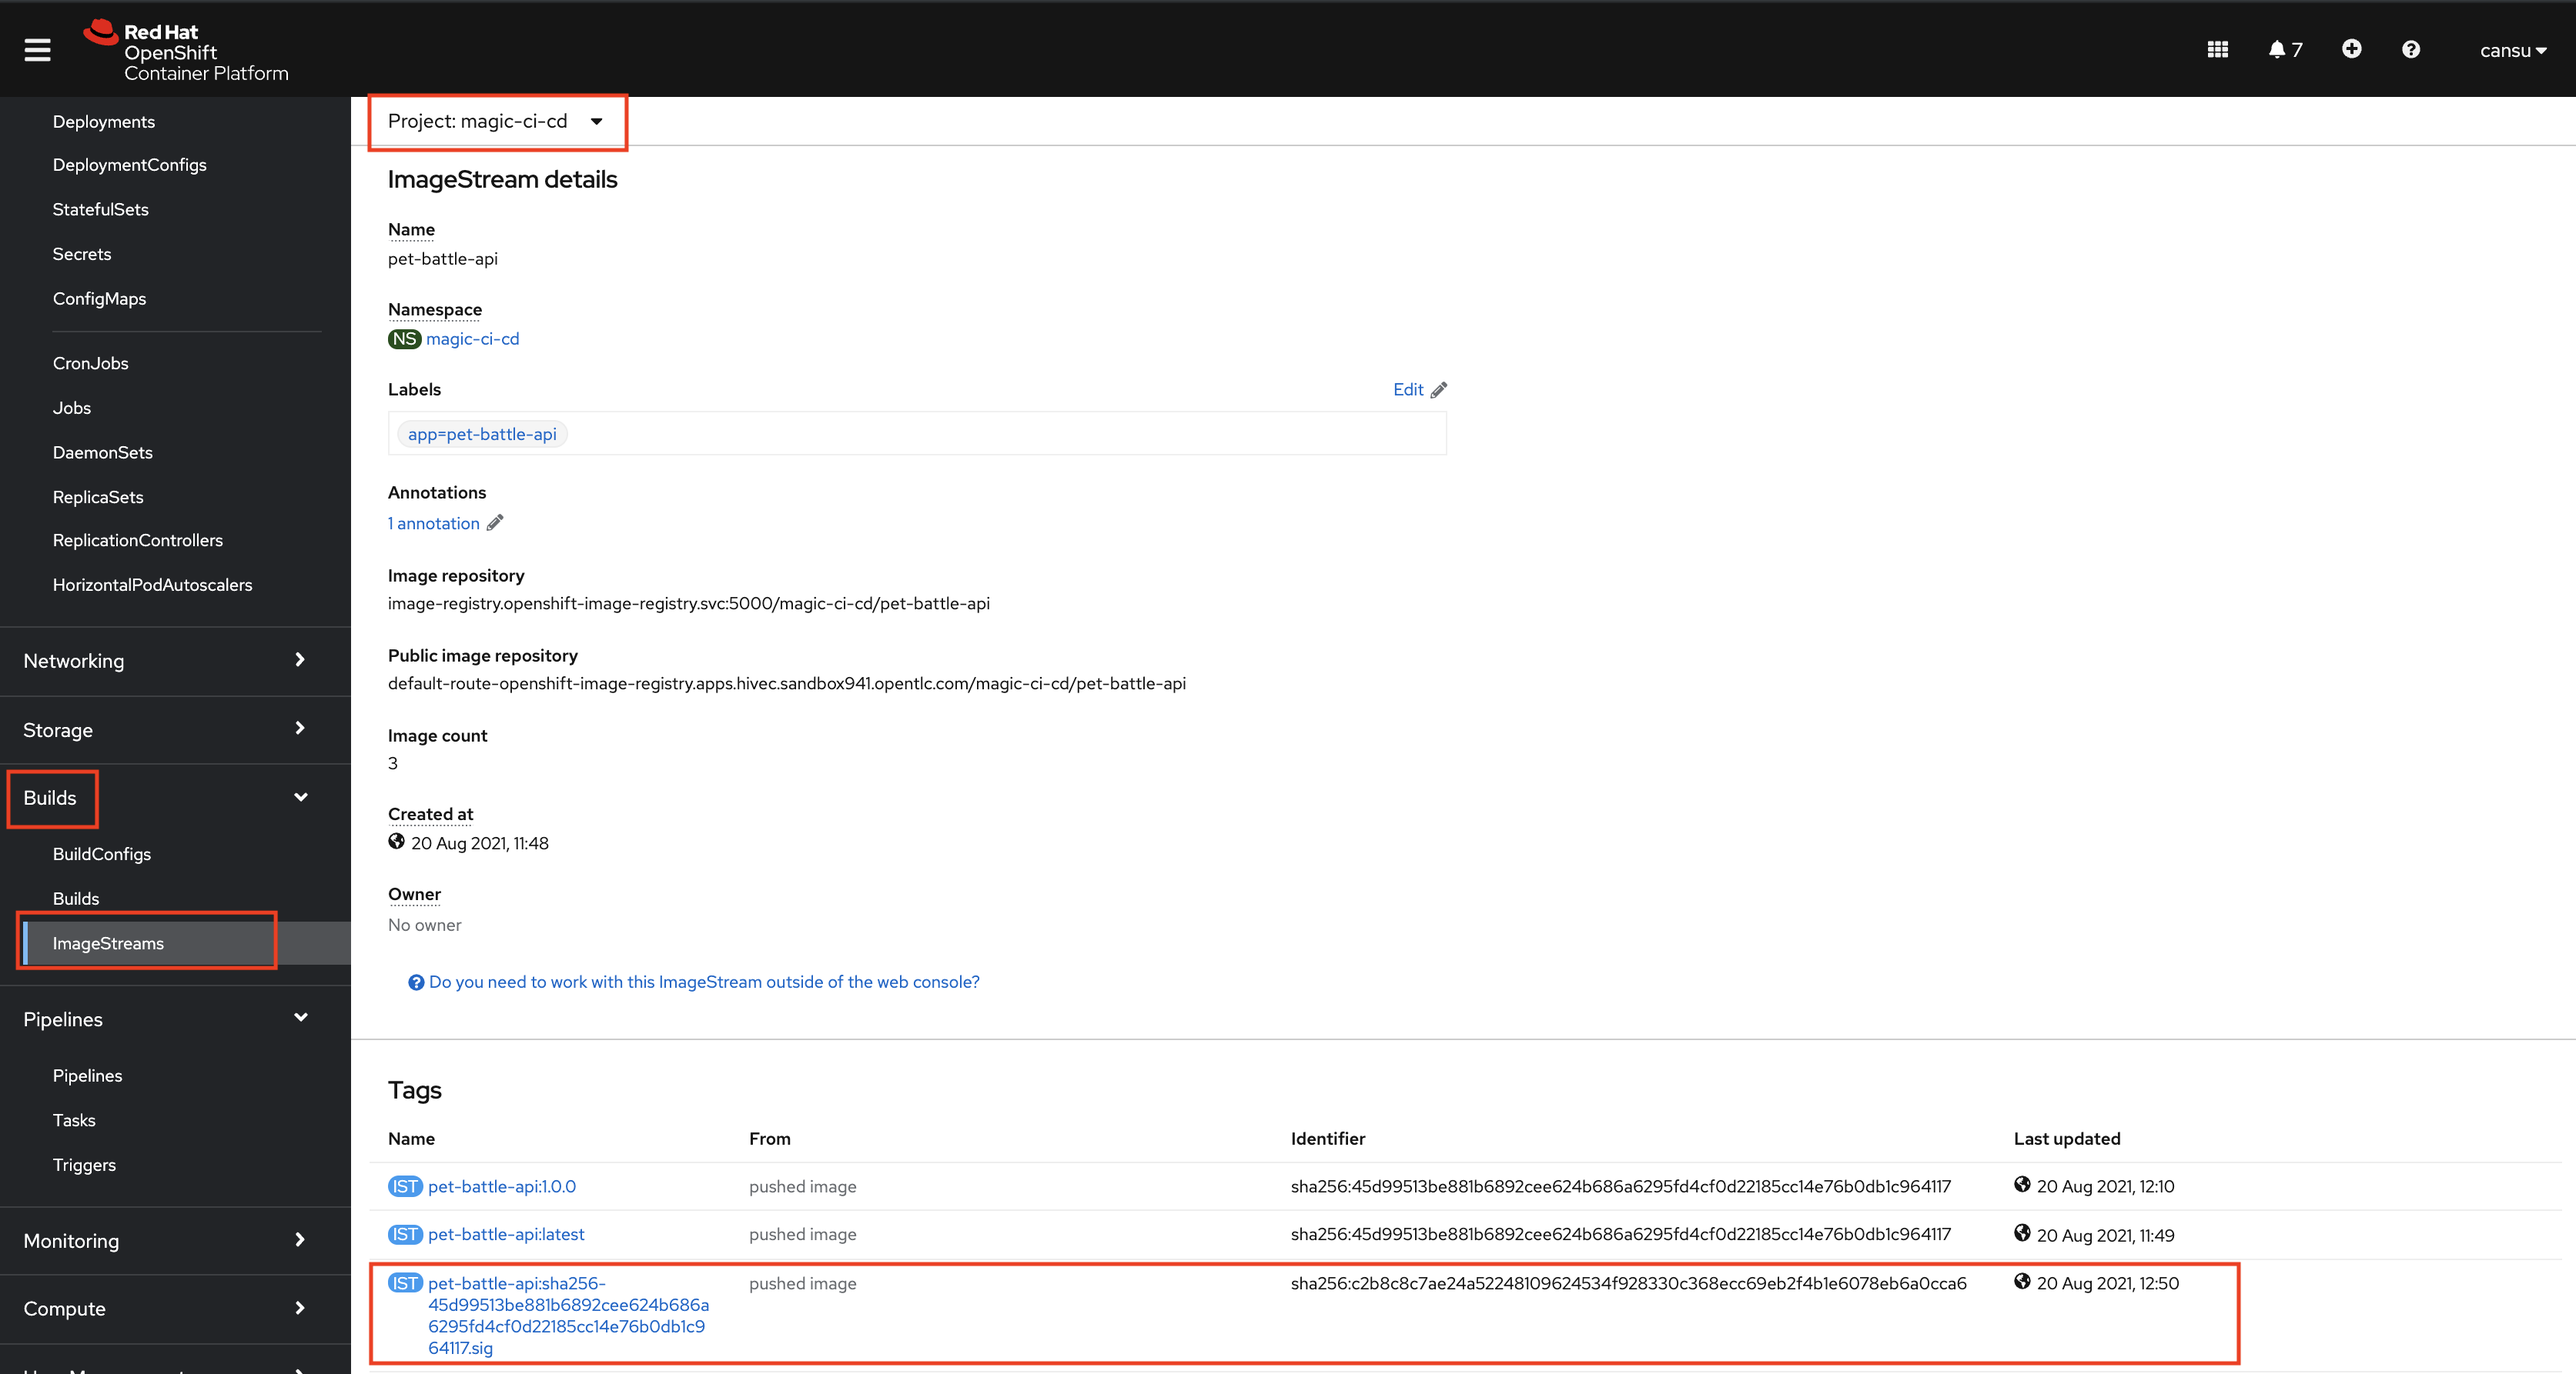
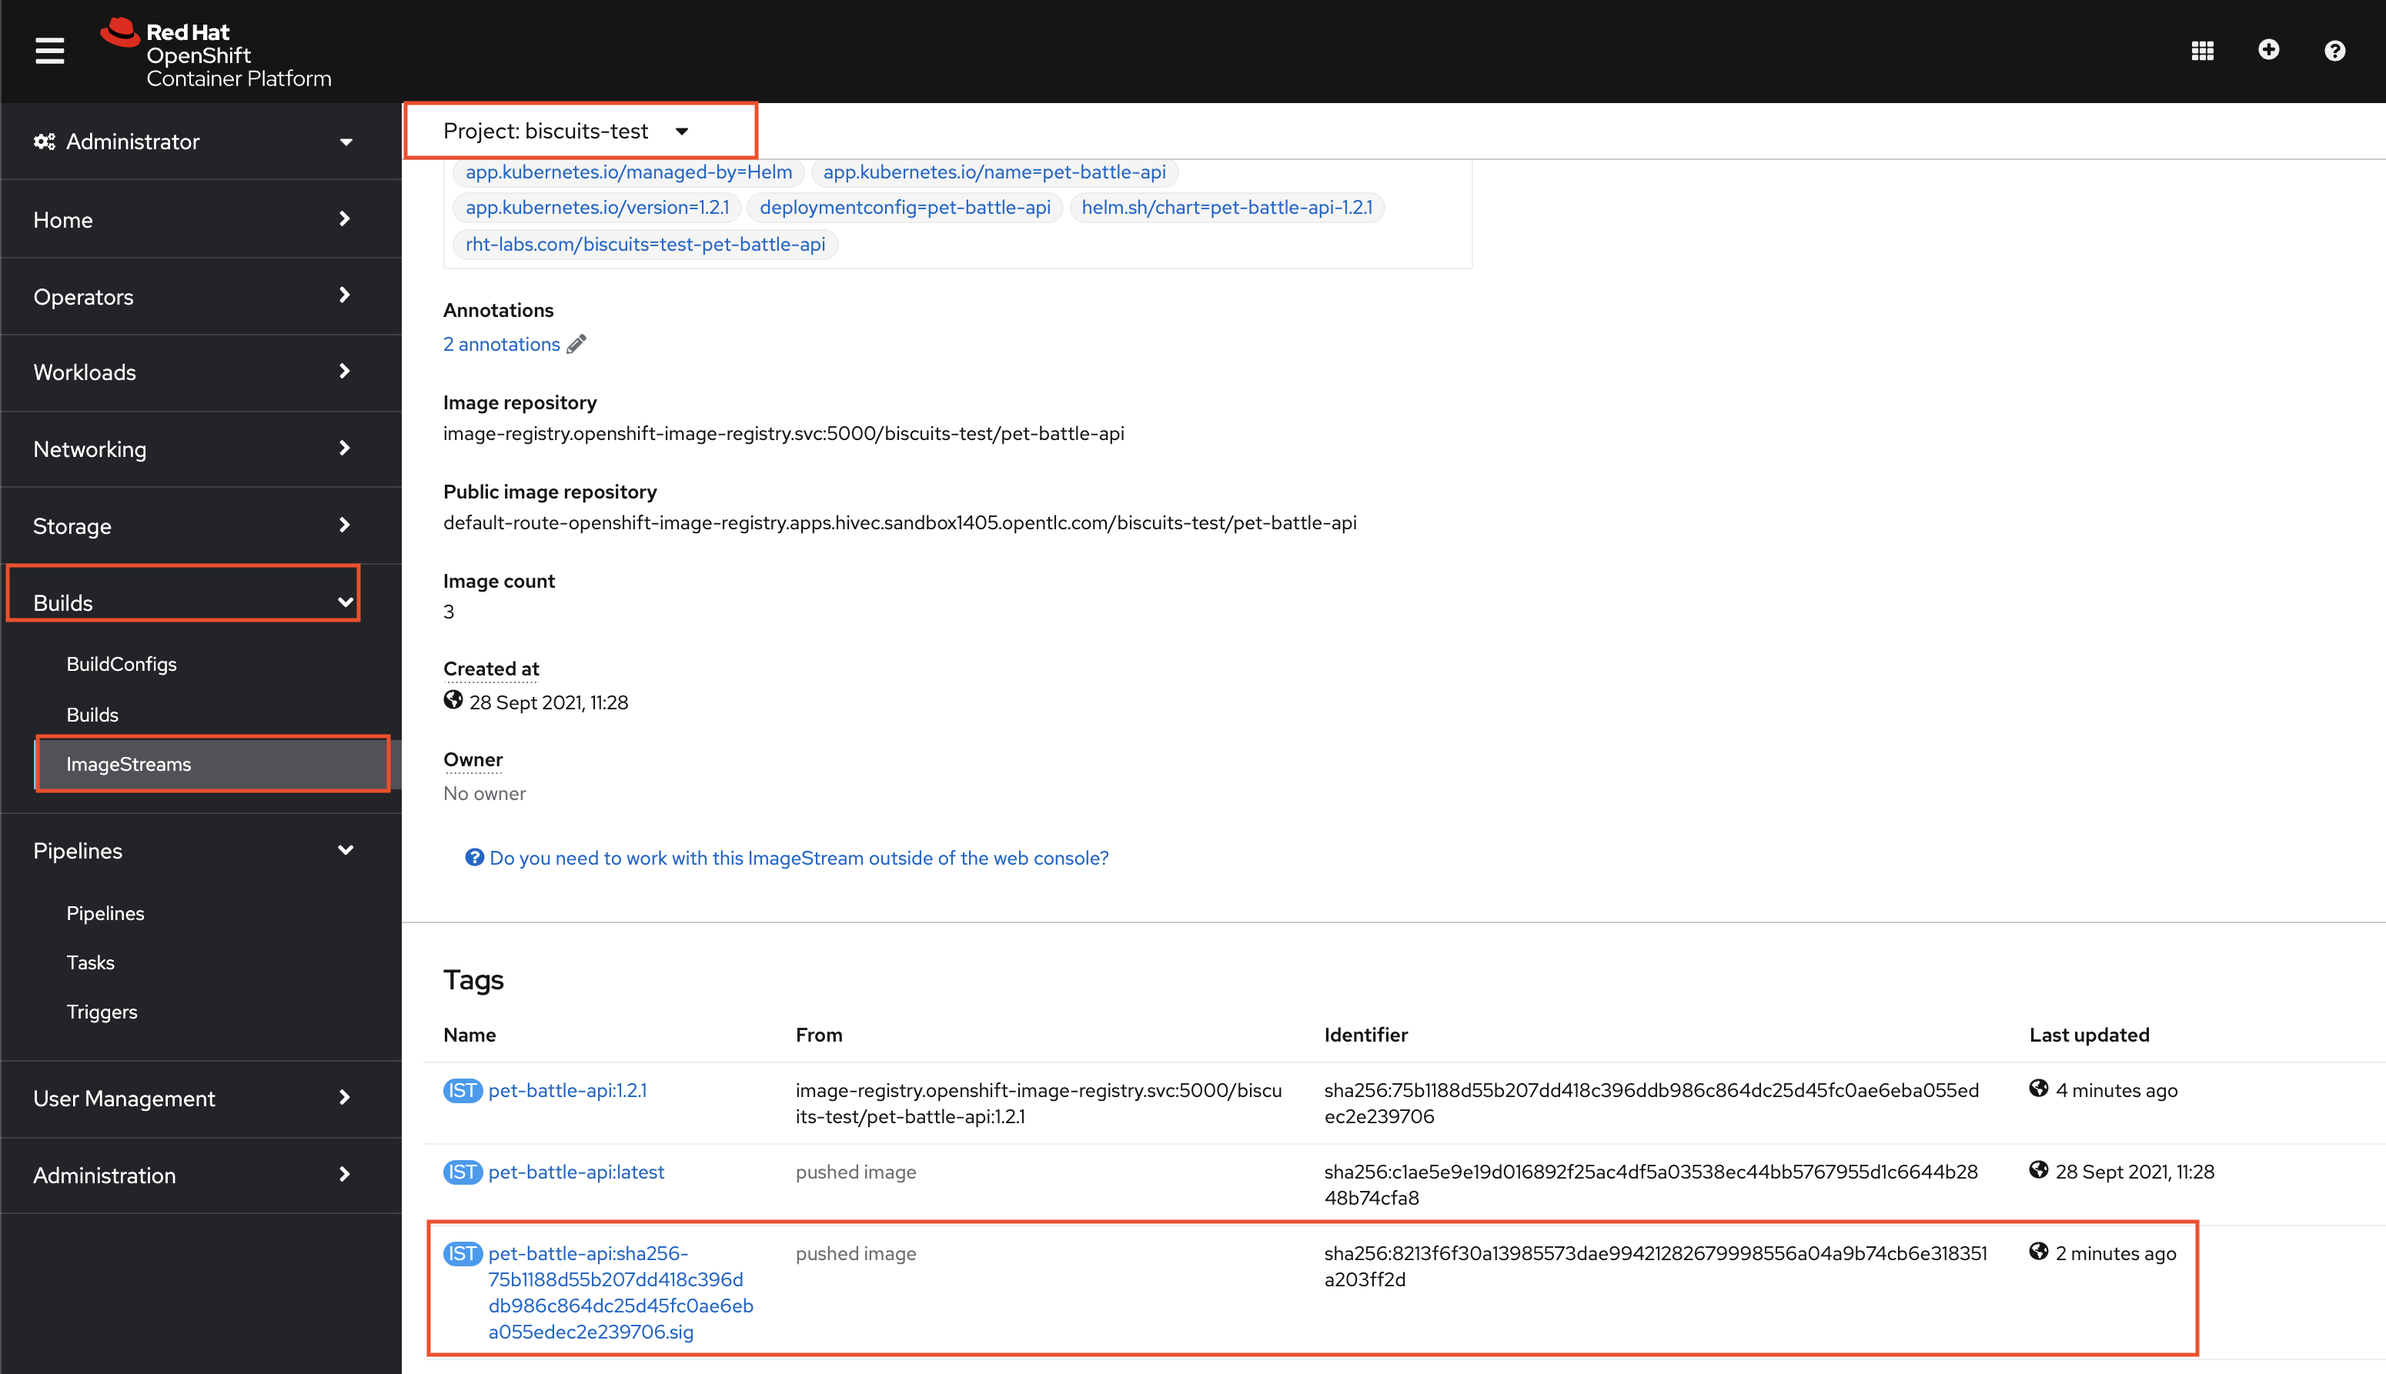
🐪 fixes while dry run 🐪

diff --git a/docs/3-revenge-of-the-automated-testing/7a-jenkins.md b/docs/3-revenge-of-the-automated-testing/7a-jenkins.md
@@ -35,7 +35,7 @@
                             curl -k -L -H "Authorization: Bearer ${ROX_CREDS_PSW}" https://${ROX_CREDS_USR}/api/cli/download/roxctl-linux --output roxctl  > /dev/null;
                             chmod +x roxctl > /dev/null
                             export ROX_API_TOKEN=${ROX_CREDS_PSW}
-                            ./roxctl image scan --insecure-skip-tls-verify -e ${ROX_CREDS_USR}:443 --image ${DESTINATION_NAMESPACE}/${APP_NAME}:${VERSION} --format pretty
+                            ./roxctl image scan --insecure-skip-tls-verify -e ${ROX_CREDS_USR}:443 --image image-registry.openshift-image-registry.svc:5000/${DESTINATION_NAMESPACE}/${APP_NAME}:${VERSION} --format pretty
                         '''
 
                         // BUILD & DEPLOY CHECKS
@@ -69,14 +69,7 @@
                         sh '''
                             set +x
                             export ROX_API_TOKEN=${ROX_CREDS_PSW}
-                            ./roxctl image check --insecure-skip-tls-verify -e ${ROX_CREDS_USR}:443  --image ${DESTINATION_NAMESPACE}/${APP_NAME}:${VERSION} --json --json-fail-on-policy-violations=true
-                            if [ $? -eq 0 ]; then
-                                echo "🦕 no issues found 🦕";
-                                exit 0;
-                            else
-                                echo "🛑 image checks failed 🛑";
-                                exit 1;
-                            fi
+                            ./roxctl image check --insecure-skip-tls-verify -e ${ROX_CREDS_USR}:443  --image image-registry.openshift-image-registry.svc:5000/${DESTINATION_NAMESPACE}/${APP_NAME}:${VERSION} --json --json-fail-on-policy-violations=false
                         '''
     ```
 2. Again, push the changes to the repo, which also will trigger the pipeline.
@@ -88,8 +81,14 @@
     git commit -m  "🎄 ADD - image scan stage 🎄"
     git push 
     ```
-    🪄 Observe the **pet-battle** pipeline running with two steps in one stage.
+    🪄 Observe the **pet-battle** pipeline, check the logs for image scanning stage and detects some violations for deploy 😔😔
+![acs-jenkins-pipeline](images/acs-jenkins-pipeline.png)
 
+3. Go back to StackRox webUI and see the failure in the *Violations* view. 
+    <p class="tip">We should have broken the pipeline and fix these violations in order to continue to our pipeline. Please refer _Here Be Dragons_ section for it.</p>
+
+![acs-pet-battle-violations](images/acs-pet-battle-violations.png)
+<!--
 ## Breaking the Build
 
 Let's run through a scenario where we break/fix the build using a build policy violation.
@@ -130,3 +129,4 @@ Let's run through a scenario where we break/fix the build using a build policy v
     ```
 
 🪄 Observe the **pet-battle** pipeline running successfully again.
+-->

diff --git a/docs/3-revenge-of-the-automated-testing/8a-jenkins.md b/docs/3-revenge-of-the-automated-testing/8a-jenkins.md
@@ -46,31 +46,30 @@
     ```
 
     🪄 Observe the **pet-battle** pipeline running with the **image-sign** stage.
+    ![cosign-jenkins-pipeline](images/cosign-jenkins-pipeline.png)
 
-    After the pipeline succesfully finish, go to OpenShift UI > Builds > ImageStreams and select `pet-battle`. You'll see a tag ending with `.sig` which shows you that this is image signed.
+    After the pipeline succesfully finish, go to OpenShift UI > Builds > ImageStreams inside `<TEAM_NAME>-test` namespace and select `pet-battle`. You'll see a tag ending with `.sig` which shows you that this is image signed.
 
-    ![cosign-image-signing](images/cosign-image-signing.png)
+    ![cosign-image-signing-pet-battleg](images/cosign-image-signing-pet-battle.png)
 
-    [TODO] update the screenshot
-
-4. Let's verify the signed image with the public key:
+4. Let's verify the signed image with the public key. Make sure you use the right `APP VERSION` for the image. (`1.3.1` in this case)
 
     ```bash
     cd /projects/pet-battle
     oc registry login
-    cosign verify -key cosign.pub default-route-openshift-image-registry.<CLUSTER_DOMAIN>/<TEAM_NAME>-cd-cd/pet-battle
+    cosign verify -key cosign.pub default-route-openshift-image-registry.<CLUSTER_DOMAIN>/<TEAM_NAME>-test/pet-battle:1.3.1
     ```
 
     The output should be like:
 
     <div class="highlight" style="background: #f7f7f7">
     <pre><code class="language-bash">
-    Verification for default-route-openshift-image-registry.<CLUSTER_DOMAIN>/<TEAM_NAME>-ci-cd/pet-battle --
+    Verification for default-route-openshift-image-registry.<CLUSTER_DOMAIN>/<TEAM_NAME>-test/pet-battle:1.3.1 --
     The following checks were performed on each of these signatures:
     - The cosign claims were validated
     - The signatures were verified against the specified public key
     - Any certificates were verified against the Fulcio roots.
-    {"critical":{"identity":{"docker-reference":"default-route-openshift-image-registry.<CLUSTER_DOMAIN>/<TEAM_NAME>-ci-cd/pet-battle"},"image":{"docker-manifest-digest":"sha256:ec332c568ef608b6f1d2d179d9ac154523fbe412b4f893d76d49d267a7973fea"},"type":"cosign container image signature"},"optional":null}
+    {"critical":{"identity":{"docker-reference":"default-route-openshift-image-registry.<CLUSTER_DOMAIN>/<TEAM_NAME>-test/pet-battle"},"image":{"docker-manifest-digest":"sha256:0ed4731d77bc2412079c85c6bc40f19c0a1615b9574cc3e7a7005910740248de"},"type":"cosign container image signature"},"optional":null}
     </code>
     </pre>
     </div>

diff --git a/docs/3-revenge-of-the-automated-testing/8b-tekton.md b/docs/3-revenge-of-the-automated-testing/8b-tekton.md
@@ -80,7 +80,7 @@ git push
 4. Store the public key in `pet-battle-api` repository for anyone who would like to verify our images. This push will also trigger the pipeline.
 
 ```bash
-cp cosign.pub /projects/pet-battle-api/
+cp /tmp/cosign.pub /projects/pet-battle-api/
 cd /projects/pet-battle-api
 git add cosign.pub
 git commit -m  "🪑 ADD - cosign public key for image verification 🪑"
@@ -92,21 +92,21 @@ git push
 After the task succesfully finish, go to OpenShift UI > Builds > ImageStreams and select `pet-battle-api`. You'll see a tag ending with `.sig` which shows you that this is image signed. 
 ![cosign-image-signing](images/cosign-image-signing.png)
 
-5. Let's verify the signed image with the public key:
+5. Let's verify the signed image with the public key. Make sure you use the right `APP VERSION` for the image. (`1.2.1` in this case)
 
 ```bash
 cd /projects/pet-battle-api
 oc registry login
-cosign verify -key cosign.pub default-route-openshift-image-registry.<CLUSTER_DOMAIN>/<TEAM_NAME>-cd-cd/pet-battle-api
+cosign verify -key cosign.pub default-route-openshift-image-registry.<CLUSTER_DOMAIN>/<TEAM_NAME>-test/pet-battle-api:1.2.1
 ```
 
 The output should be like:
 
 ```bash
-Verification for default-route-openshift-image-registry.<CLUSTER_DOMAIN>/<TEAM_NAME>-ci-cd/pet-battle-api --
+Verification for default-route-openshift-image-registry.<CLUSTER_DOMAIN>/<TEAM_NAME>-test/pet-battle-api:1.2.1 --
 The following checks were performed on each of these signatures:
   - The cosign claims were validated
   - The signatures were verified against the specified public key
   - Any certificates were verified against the Fulcio roots.
-{"critical":{"identity":{"docker-reference":"default-route-openshift-image-registry.<CLUSTER_DOMAIN>/<TEAM_NAME>-ci-cd/pet-battle-api"},"image":{"docker-manifest-digest":"sha256:ec332c568ef608b6f1d2d179d9ac154523fbe412b4f893d76d49d267a7973fea"},"type":"cosign container image signature"},"optional":null}
+{"critical":{"identity":{"docker-reference":"default-route-openshift-image-registry.<CLUSTER_DOMAIN>/<TEAM_NAME>-test/pet-battle-api"},"image":{"docker-manifest-digest":"sha256:ec332c568ef608b6f1d2d179d9ac154523fbe412b4f893d76d49d267a7973fea"},"type":"cosign container image signature"},"optional":null}
 ```

diff --git a/docs/3-revenge-of-the-automated-testing/9b-tekton.md b/docs/3-revenge-of-the-automated-testing/9b-tekton.md
@@ -78,7 +78,7 @@
         # Load Testing
         - name: load-testing
           runAfter:
-          - verify-deployment
+            - verify-deployment
           taskRef:
             name: load-testing
           workspaces:
